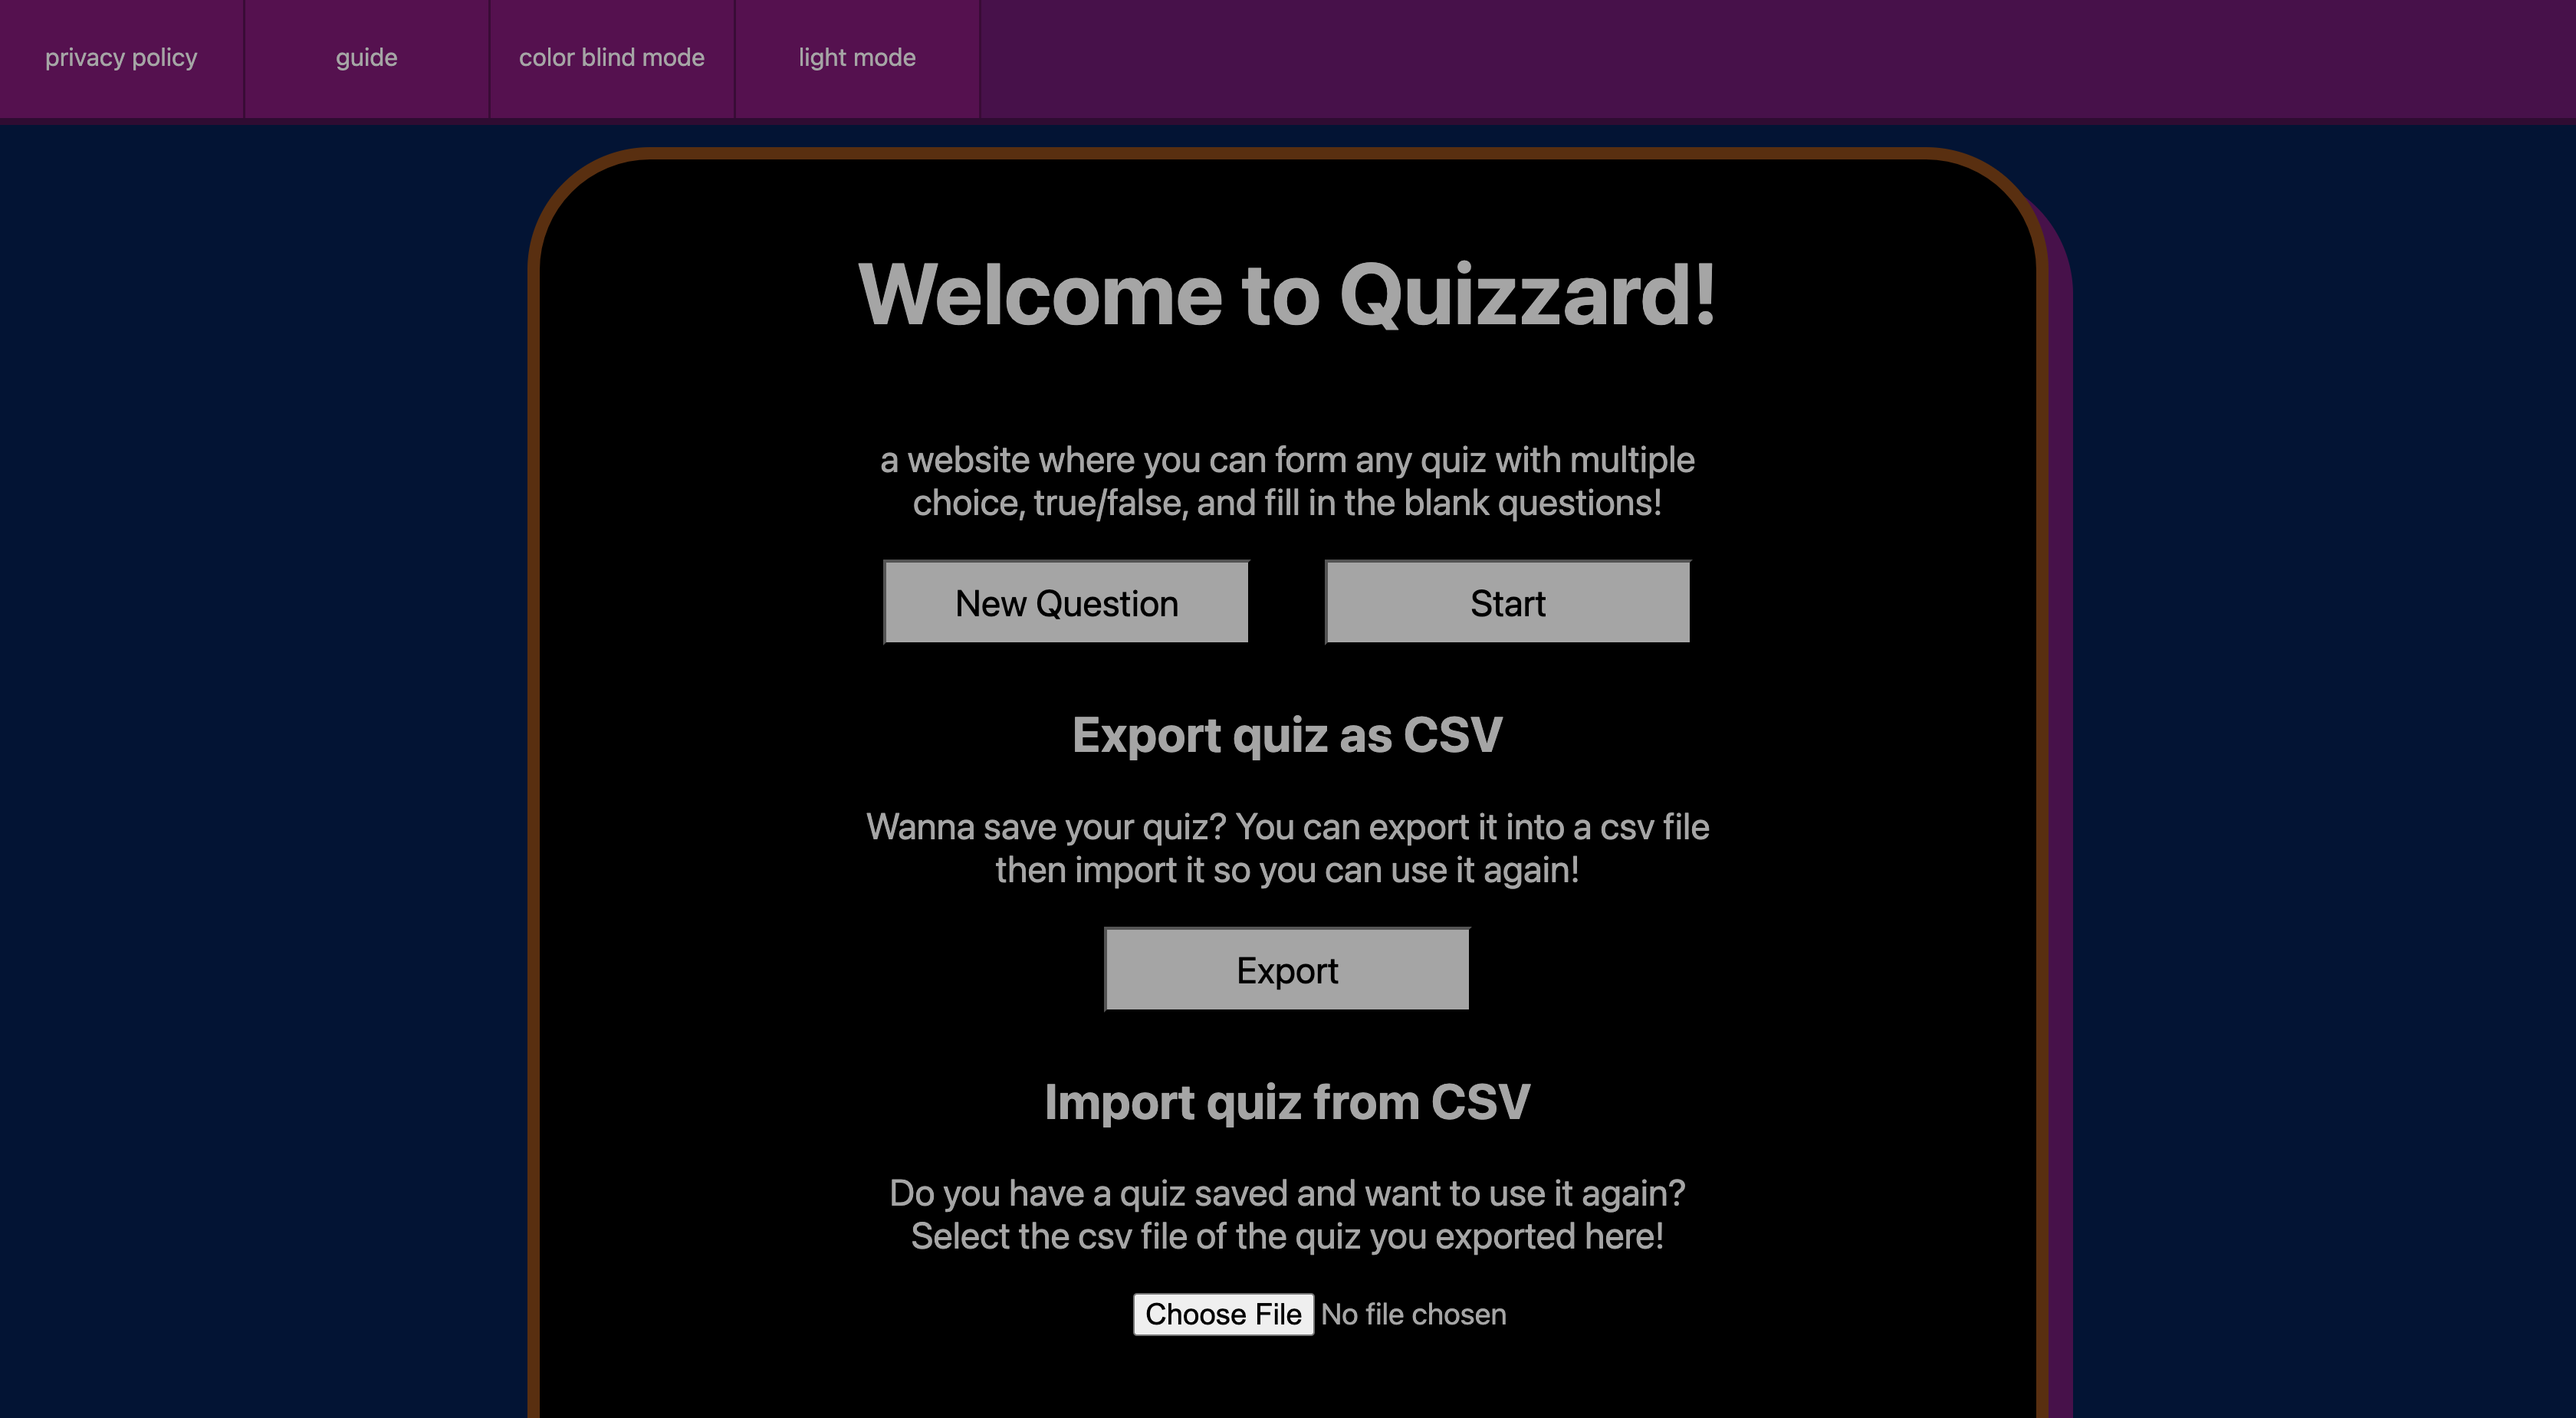
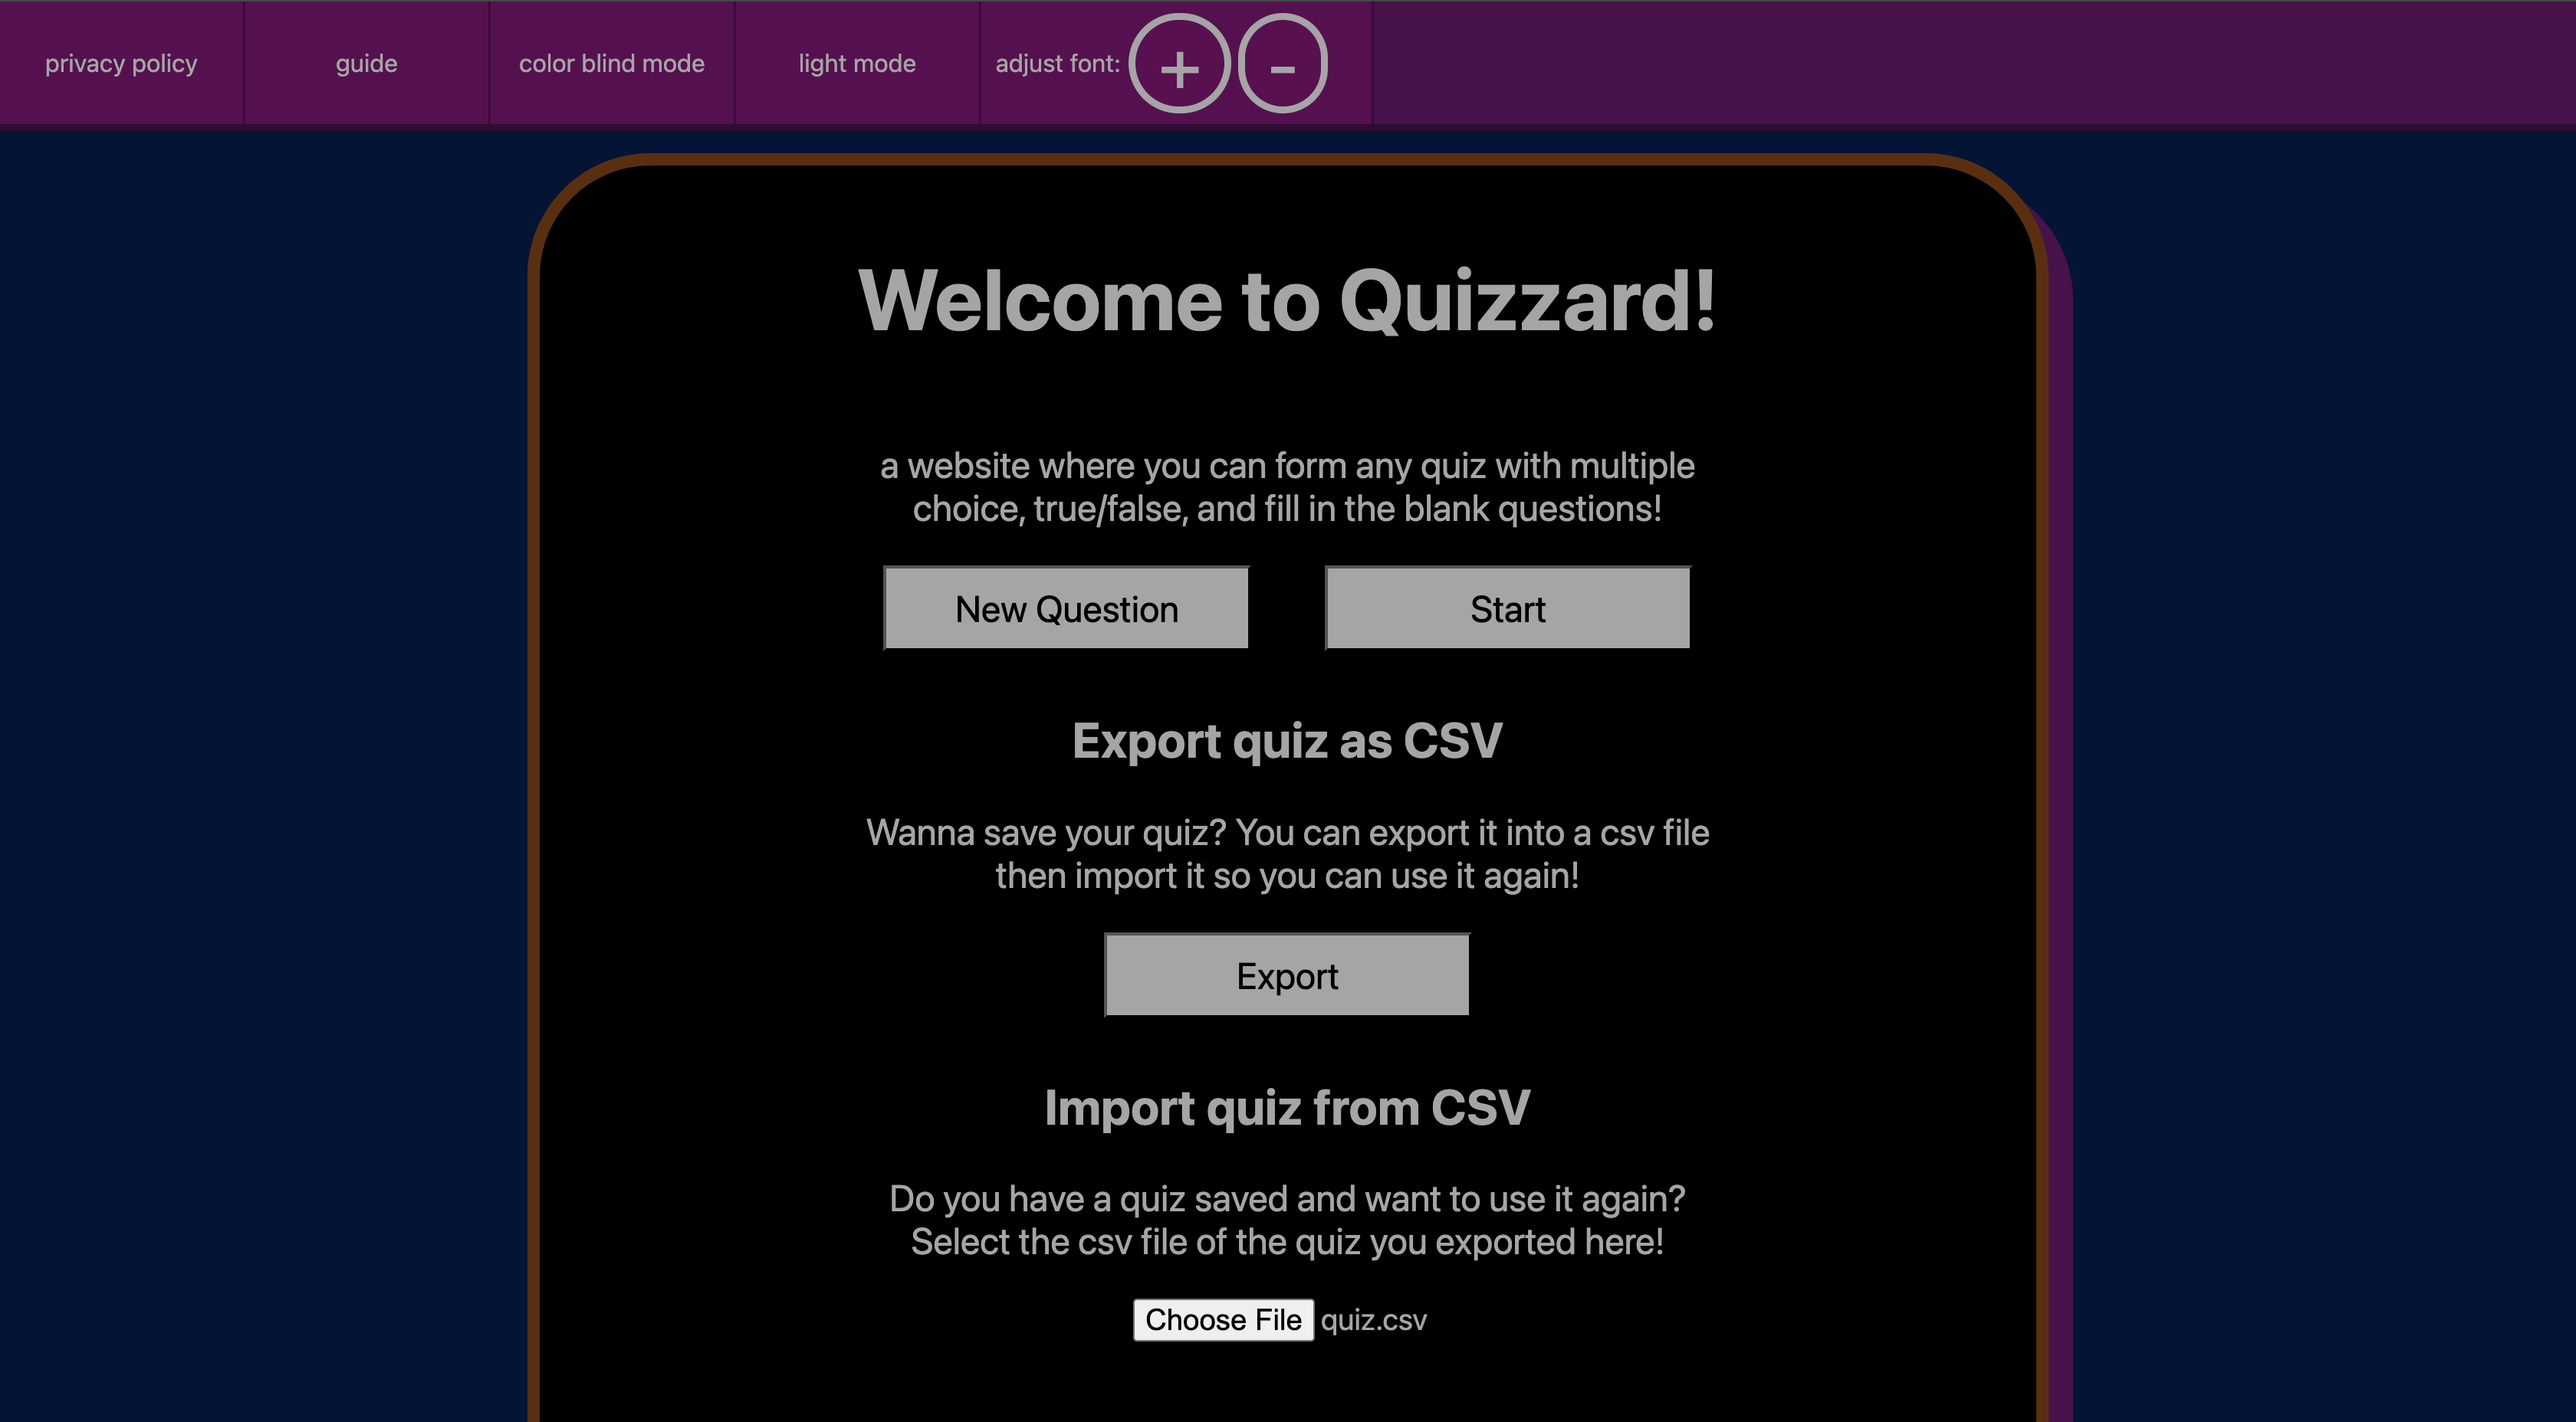
added adjust font section to guide

diff --git a/guide.html b/guide.html
@@ -103,6 +103,9 @@
         <img src="./img/colorblindoption.png" alt = "'colorblind mode' button.">
         <p>This will underline all buttons when you hover over them, making the site more accessible for color blind people.</p>
         <img src="./img/colorblindmode.png" alt = "Colorblind mode.">
+        <h2>Adjusting fonts</h2>
+        <p>To adjust the font size, the + and - options are here to make the fonts smaller or bigger. + makes things bigger and - makes things smaller.</p>
+        <img src="./img/adjustfont.png">
     </div>
 </body>
 </html>
